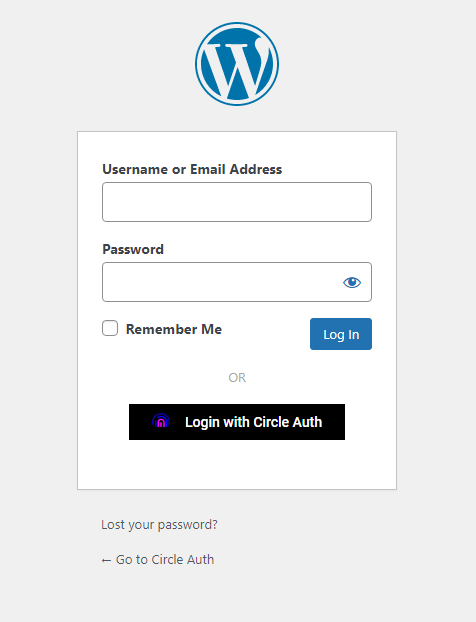
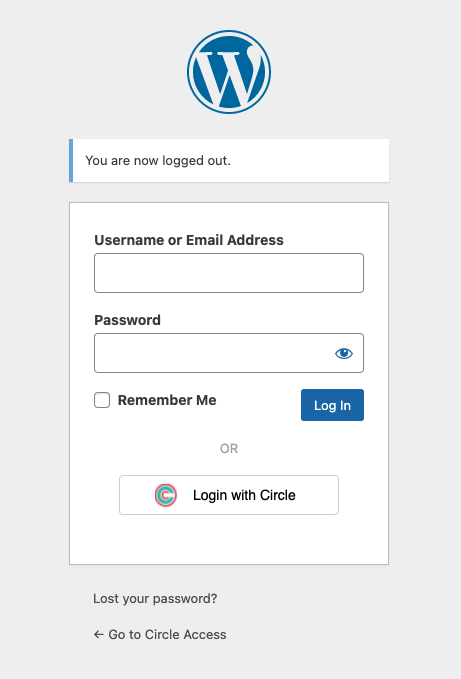
Style and branding

diff --git a/admin/css/unicauth-ui.css b/admin/css/unicauth-ui.css
@@ -1,15 +1,6 @@
-.unicauth-ui-button, 
-.unicauth-ui-button:hover, 
-.unicauth-ui-button:active, 
-.unicauth-ui-button:focus,
-.unicauth-ui-button-dark, 
-.unicauth-ui-button-dark:hover, 
-.unicauth-ui-button-dark:active, 
-.unicauth-ui-button-dark:focus,
-.unicauth-ui-button-light, 
-.unicauth-ui-button-light:hover, 
-.unicauth-ui-button-light:active, 
-.unicauth-ui-button-light:focus {    
+.circleaccess-button,
+.circleaccess-button-dark,
+.circleaccess-button-light {
     direction: ltr;
     font-weight: 500;
     height: auto;
@@ -19,11 +10,8 @@
     padding: 8px 16px;
     text-align: left;
     width: 100%;
-    
-    box-shadow: 0 2px 2px 0 rgba(0,0,0,.14),0 3px 1px -2px rgba(0,0,0,.2),0 1px 5px 0 rgba(0,0,0,.12);
-    
-    border: none;
-    border-radius: 2px;
+    border-radius: 4px;
+    border: 1px solid lightgray;
     position: relative;
     margin: 0;
     min-width: 64px;
@@ -33,69 +21,52 @@
     letter-spacing: 0;
     overflow: hidden;
     will-change: box-shadow;
-    transition: box-shadow .2s cubic-bezier(0.4, 0, 1, 1),background-color .2s cubic-bezier(0.4, 0, 0.2, 1),color .2s cubic-bezier(0.4, 0, 0.2, 1);
+    transition: box-shadow .2s cubic-bezier(0.4, 0, 1, 1), background-color .2s cubic-bezier(0.4, 0, 0.2, 1), color .2s cubic-bezier(0.4, 0, 0.2, 1);
     outline: none;
     cursor: pointer;
     text-decoration: none;
     vertical-align: middle;
-
     font-family: "Roboto", "Helvetica", "Arial", sans-serif;
+    background-color: white;
 }
 
-.unicauth-ui-button-dark, 
-.unicauth-ui-button-dark:hover, 
-.unicauth-ui-button-dark:active, 
-.unicauth-ui-button-dark:focus {
-    background-color: #000000;
-}
-
-.unicauth-ui-button-light, 
-.unicauth-ui-button-light:hover, 
-.unicauth-ui-button-light:active, 
-.unicauth-ui-button-light:focus {
-    background-color: #ffffff;
-}
-
-.unicauth-ui-icon-wrapper {
+.circleaccess-icon-wrapper {
     display: table-cell;
     vertical-align: middle;
 }
 
-.unicauth-ui-icon {
+.circleaccess-icon {
     border: none;
-    display: inline-block;
-    height: 18px;
-    vertical-align: middle;
-    width: 18px;
-    border-radius: 4px;
+    display: inline-block!important;
+    height: auto!important;
+    vertical-align: middle!important;
+    width: 22px!important;
+    margin-left: 35px!important;
 }
 
-.unicauth-ui-text {
-    display: table-cell;
-    font-size: 14px;
-    padding-left: 16px;
-    text-transform: none;
-    vertical-align: middle;
+.circleaccess-text {
+    display: table-cell!important;
+    font-size: 14px!important;
+    padding-left: 16px!important;
+    text-transform: none!important;
+    vertical-align: middle!important;
 }
+ 
 
-.unicauth-ui-button-dark .unicauth-ui-text {
-    color: #ffffff;
-}
-
-.unicauth-ui-button-light .unicauth-ui-text {
+.circleaccess-button-light .circleaccess-text {
+    text-align: center;
     color: #000000;
 }
 
-.unicauth-ui-text-short {
+.circleaccess-text-short {
     display: none;
 }
 
-@media (max-width: 268px){
-    .unicauth-ui-text-long {
+@media (max-width: 268px) {
+    .circleaccess-text-long {
         display: none;
     }
-
-    .unicauth-ui-text-short {
+    .circleaccess-text-short {
         display: table-cell;
     }
 }

diff --git a/admin/templates/main.php b/admin/templates/main.php
@@ -29,7 +29,7 @@
                value="<?php echo esc_attr(get_option('circleauth_app_key')); ?>" class="regular-text"
                style="width:40em;">
             <p class="description"
-               id="tagline-appkey"><?php printf(__('Application %1$s available at <a target="blank" href="%2$s">%3$s Console</a>', 'circleauth-wordpress'), 'App Key', CIRCLEAUTH_CONSOLE_URL, 'Circle Auth'); ?></p>
+               id="tagline-appkey"><?php printf(__('Application %1$s available at <a target="blank" href="%2$s">%3$s Console</a>', 'circleauth-wordpress'), 'App Key', CIRCLEAUTH_CONSOLE_URL, 'Circle Access'); ?></p>
          </td>
       </tr>
       <tr>
@@ -41,7 +41,7 @@
                value="<?php echo esc_attr(get_option('circleauth_app_read')); ?>"  class="regular-text"
                style="width:40em;">
             <p class="description"
-               id="tagline-readkey"><?php printf(__('Application %1$s available at <a target="blank" href="%2$s">%3$s Console</a>', 'circleauth-wordpress'), 'Read Key', CIRCLEAUTH_CONSOLE_URL, 'Circle Auth'); ?></p>
+               id="tagline-readkey"><?php printf(__('Application %1$s available at <a target="blank" href="%2$s">%3$s Console</a>', 'circleauth-wordpress'), 'Read Key', CIRCLEAUTH_CONSOLE_URL, 'Circle Access'); ?></p>
          </td>
       </tr>
 
@@ -54,7 +54,7 @@
                value="<?php echo esc_attr(get_option('circleauth_app_write')); ?>" class="regular-text"
                style="width:40em;">
             <p class="description"
-               id="tagline-writekey"><?php printf(__('Application %1$s available at <a target="blank" href="%2$s">%3$s Console</a>', 'circleauth-wordpress'), 'Write Key', CIRCLEAUTH_CONSOLE_URL, 'Circle Auth'); ?>
+               id="tagline-writekey"><?php printf(__('Application %1$s available at <a target="blank" href="%2$s">%3$s Console</a>', 'circleauth-wordpress'), 'Write Key', CIRCLEAUTH_CONSOLE_URL, 'Circle Access'); ?>
             </p>
          </td>
       </tr>
@@ -82,12 +82,12 @@
          </td>
       </tr>
       <tr>
-         <th scope="row"><label for="redirect"><?php _e('Circle Auth callback page', 'circleauth-wordpress'); ?>
+         <th scope="row"><label for="redirect"><?php _e('Circle Access callback page', 'circleauth-wordpress'); ?>
              </label>
          </th>
 
          <td>
-            <?php $call_back_page = get_home_url().'/wp-content/plugins/circleauth-wordpress/callback.php'; ?>
+            <?php $call_back_page = get_home_url().'/wp-content/plugins/circleaccess-wordpress-main/callback.php'; ?>
 
             <input name="circleauth_callback_page" readonly type="text" id="callback_page"
                value="<?php echo $call_back_page; ?>"  class="regular-text call_back_input"
@@ -99,13 +99,13 @@
 
                <p class="description"
                   id="tagline-readkey">
-                  <?php printf(__('Callback page to be added %1$s at <a target="_blank" href="%2$s">%3$s Console</a>', 'circleauth-wordpress'), '', CIRCLEAUTH_CONSOLE_URL, 'Circle Auth'); ?>
+                  <?php printf(__('Callback page to be added %1$s at <a target="_blank" href="%2$s">%3$s Console</a>', 'circleauth-wordpress'), '', CIRCLEAUTH_CONSOLE_URL, 'Circle Access'); ?>
                </p>   
           </div>
          </td>
       </tr> 
       <tr>
-         <th scope="row"><label for="domains"><?php _e('Circle Auth can be configured to accept new users from specific domains or emails. You can also set the WordPress role. ', 'domains'); ?></label>
+         <th scope="row"><label for="domains"><?php _e('Circle Access can be configured to accept new users from specific domains or emails. You can also set the WordPress role. ', 'domains'); ?></label>
          </th>
          <td >
             
@@ -130,7 +130,7 @@
           <td>
           <input type="checkbox" class="form-check-input" <?php if (get_option('circleauth_add_login_btn') == 'on') {
     echo 'checked';
-} ?> name="circleauth_add_login_btn" id="add_login_btn"> <?php echo __('Add Circle Auth login to default WordPress login page'); ?>
+} ?> name="circleauth_add_login_btn" id="add_login_btn"> <?php echo __('Add Circle Access login to default WordPress login page'); ?>
  
           </td>
       </tr>

diff --git a/circleauth-wordpress.php b/circleauth-wordpress.php
@@ -1,14 +1,14 @@
 <?php
 
 /**
- * @version 1.0.0
+ * @version 1.1.0
  */
 /*
-Plugin Name:  Circle Auth
+Plugin Name:  Circle Access
 Plugin URI: https://github.com/circlesystems/circleauth-wordpress/
-Description: Circle Auth Authentication for WordPress
+Description: Circle Access Authentication for WordPress
 Author: Circle Systems
-Version: 1.0.0
+Version: 1.1.0
 Author URI: http://circleauth.gocircle.ai
 */
 
@@ -49,10 +49,10 @@ class CircleAuth
         //call register settings function
         add_action('admin_init', [$this, 'register_circleauth_plugin_settings']);
 
-        //adds the Circle Auth login button to the default login page
+        //adds the Circle Access login button to the default login page
         add_action('login_form', [$this, 'sign_in_with_circleauth'], 10, 1);
 
-        //removes the user from Circle Auth table
+        //removes the user from Circle Access table
         add_action('delete_user', function ($user_id, $blog_id) {
             $this->deleteCircleAuthUser($user_id);
         }, 10, 2);
@@ -60,7 +60,7 @@ class CircleAuth
         //shows messages in the default login page
         add_filter('login_message', [$this, 'loginMessage']);
 
-        //call the routine to create the Circle Auth table on plugin registration
+        //call the routine to create the Circle Access table on plugin registration
         register_activation_hook(__FILE__, [$this, 'createCircleAuthTable']);
 
         //call the routine on plugin uninstall
@@ -101,17 +101,18 @@ class CircleAuth
         if (get_option('circleauth_add_login_btn') == 'on') {
             ?>
       <script>
-         $(document).ready(function() {
+            $(document).ready(function() {
             let obj = $("#loginform").children("p.submit");
             let buttonHtml = '<div  class="circleAuthLoginCont" style="text-align: center;width:100%;color:white;margin-bottom:15px;margin-top:50px">';
             buttonHtml +='<div style="margin-bottom: 18px;color:darkgrey"> OR </div>';
-            buttonHtml +='<button id = "unic-login" class="circleAuth-ui-button" style="line-height:35px;border:none;background-color:black;width:80%" onclick="circleAuthLogin(event)">';
-            buttonHtml +='<img class="unicauth-ui-icon" style="vertical-align: baseline;" alt="" src="<?php echo CIRCLEAUTH_DOMAIN.'files/logo.svg'; ?> "/>';
-            buttonHtml +='<span style="margin-left:15px;font-size: 14px; font-family: Roboto,Helvetica, Arial, sans-serif;">Login with Circle Auth</span>';
-            buttonHtml +='</div>';
+            buttonHtml +='<button id="unic-login" class="circleaccess-button circleaccess-button-light" onclick="circleAuthLogin(event)">';
+            buttonHtml +='<span class="circleaccess-icon-wrapper"><img class="circleaccess-icon" alt="" src="<?php echo CIRCLEAUTH_CONSOLE_URL?>dashboard/img/circle_logo.png"/></span>';
+            buttonHtml +='<span class="circleaccess-text circleaccess-text-long">Login with Circle </span></button>';
+             buttonHtml +='</div>';
+ 
             $(obj).after(buttonHtml);
-        });
-        
+        }); 
+      
          function circleAuthLogin(event){
             event.preventDefault();
             window.location.href= "<?php echo CIRCLEAUTH_DOMAIN.'/login/'.get_option('circleauth_app_key'); ?>";
@@ -168,7 +169,7 @@ class CircleAuth
     public function circleauth_plugin_create_menu()
     {
         //create new top-level menu
-        add_menu_page('Circle Auth Settings', 'Circle Auth', 'administrator', __FILE__, [$this, 'circleauth_plugin_settings_page'], plugins_url('/images/icon.png', __FILE__));
+        add_menu_page('Circle Access Settings', 'Circle Access', 'administrator', __FILE__, [$this, 'circleauth_plugin_settings_page'], plugins_url('/images/icon.png', __FILE__));
     }
 
     public function register_circleauth_plugin_settings()

diff --git a/admin/templates/header.php b/admin/templates/header.php
@@ -8,11 +8,11 @@ defined('ABSPATH') || die();
     <nav class="navbar navbar-expand-md navbar-dark" style="background-color: black">
         <div class="container">
 
-            <a class="navbar-brand" style="text-decoration: none;" href="../"><img src="<?php echo plugin_dir_url(dirname(__FILE__)).'images/logo.svg'; ?>" alt="Circle Auth" class="logo" style="width:30px;margin-top: -15px;">
-                Circle Auth</a>
+            <a class="navbar-brand" style="text-decoration: none;" href="../"><img src="<?php echo plugin_dir_url(dirname(__FILE__)).'images/circle_logo_only.svg'; ?>" alt="Circle Access" class="logo" style="width:30px;margin-top: -8px;">
+                Circle Access</a>
             <button class="navbar-toggler" type="button" data-toggle="collapse" data-target="#navbarNav" aria-controls="navbarNav" aria-expanded="false" aria-label="Toggle navigation">
                 <span class="navbar-toggler-icon"></span>
-            </button>
+            </button> 
 
             <div class="collapse navbar-collapse" id="navbarNav" >
                 <ul class="navbar-nav ml-auto">

diff --git a/callback.php b/callback.php
@@ -50,9 +50,9 @@ if ($userID && $sessionID && validateReceivedQueryString() && validateUserSessio
     <meta name="author" content="Master Curcio">
     <link rel="icon" href="admin/images/logo128.png" type="image/png"/>
     <link rel="apple-touch-icon" href="admin/images/logo128.png" type="image/png"/>
-    <meta name="description" content="Circle Auth. No more phishing. Secure 2FA. Simple Login">
-    <meta name="keywords" content="Circle Auth, No phishing,Secure 2FA, Simple Login, simple auth, simple login, passwordless login, no username login">
-    <title>Circle Auth</title>
+    <meta name="description" content="Circle Access. No more phishing. Secure 2FA. Simple Login">
+    <meta name="keywords" content="Circle Access, No phishing,Secure 2FA, Simple Login, simple auth, simple login, passwordless login, no username login">
+    <title>Circle Access</title>
 
     <!-- Bootstrap core CSS -->
     <link rel="stylesheet" href="admin/css/bootstrap.min.css">

diff --git a/includes/functions.php b/includes/functions.php
@@ -251,7 +251,7 @@ function addcircleauthUser($circleauthUserID, $customId)
 
 function redirectEmailDomainNotAllowed($email)
 {
-    $_SESSION['login_msg'] = "<strong>Error:</strong> Your Email (<strong>$email</strong>) or Email Domain is Not Allowed to Log in with Circle Auth";
+    $_SESSION['login_msg'] = "<strong>Error:</strong> Your Email (<strong>$email</strong>) or Email Domain is Not Allowed to Log in with Circle Access";
     $login_url = wp_login_url($redirect_page, true);
 
     wp_redirect($login_url);

diff --git a/admin/templates/subheader.php b/admin/templates/subheader.php
@@ -1,5 +1,5 @@
-<h2>Circle Auth Settings</h2>
+<h2>Circle Access Settings</h2>
  
-<?php  echo __('To authenticate using Circle Auth you can just open the Login URL provided to you when you create a new Application in our Console.'); ?>
+<?php  echo __('To authenticate using Circle Access you can just open the Login URL provided to you when you create a new Application in our Console.'); ?>
  
 

diff --git a/readme.md b/readme.md
@@ -1,18 +1,18 @@
-# Circle Auth
-Circle Auth provides Continuous Authentication, Authorization API, Codeless 2FA, Credential-less Authentication , modules and apps to make the user access secure and easy.
+# Circle Access
+Circle Access provides Continuous Authentication, Authorization API, Codeless 2FA, Credential-less Authentication , modules and apps to make the user access secure and easy.
 
-# CircleAuth WordPress plugin
+# Circle Access WordPress plugin
 
 ## Installation
 
 ### 1) Download the zip file
 
-Go to the GitHub https://github.com/circlesystems/circleauth-wordpress, click on the "Code" button and select the "Download ZIP" option.
+Go to the GitHub https://github.com/circlesystems/circleaccess-wordpress, click on the "Code" button and select the "Download ZIP" option.
 
 ![alt text](docs/images/image20.png)
 
 
-### 2) Go to “Plugins” in your WordPress dashboard
+### 2) Go to “Plugins” on your WordPress dashboard
 
 ![alt text](docs/images/image1.png) 
 
@@ -48,10 +48,10 @@ To start using the plugin, some configurations are needed.
 
 ![alt text](docs/images/image45.png)
 
-You can retrieve the keys from the Circle Auth console (https://console.gocircle.ai/).
-In this example, we register WordPress as an application named "WordPress 9000".
-(Our WordPress runs locally on port 9000).
+You can retrieve the keys from the Circle Access console (https://console.gocircle.ai/).
+In this example, we register WordPress as an application named "Circle Access Demo".
  
+
 ![alt text](docs/images/image50.png)
 
  
@@ -64,17 +64,17 @@ In this example, we register WordPress as an application named "WordPress 9000".
 Optionally, you can register a page to which the user will be redirected after login.
 
 
-### 3. Circle Auth callback page
+### 3. Circle Access callback page
 
 ![alt text](docs/images/image60.png)
 
-This URL is used when registering the application on Circle Auth console.
+This URL is used when registering the application on Circle Access console. Make sure to copy and paste from wordpress to Circle Access as the ```Login Return Url```
 
 ![alt text](docs/images/image65.png)
 
 ### 4. Domains and e-mails
 
-Circle Auth can be configured to only accept logins from specific domains or emails.
+Circle Access can be configured to only accept logins from specific domains or emails.
 For example, you can specify that only logins whose email domain is the company's domain are accepted.
 It is also possible to configure by domain or email what role the new user should take in WordPress. This rule is only available for users who are not yet registered with WordPress.
 
@@ -82,7 +82,7 @@ It is also possible to configure by domain or email what role the new user shoul
 
 ### 5. Enable login default page
 
-When this option is enabled, the Circle Auth login button is added to the default WordPress login page.
+When this option is enabled, the Circle Access login button is added to the default WordPress login page.
 
 ![alt text](docs/images/image41.png)
 
